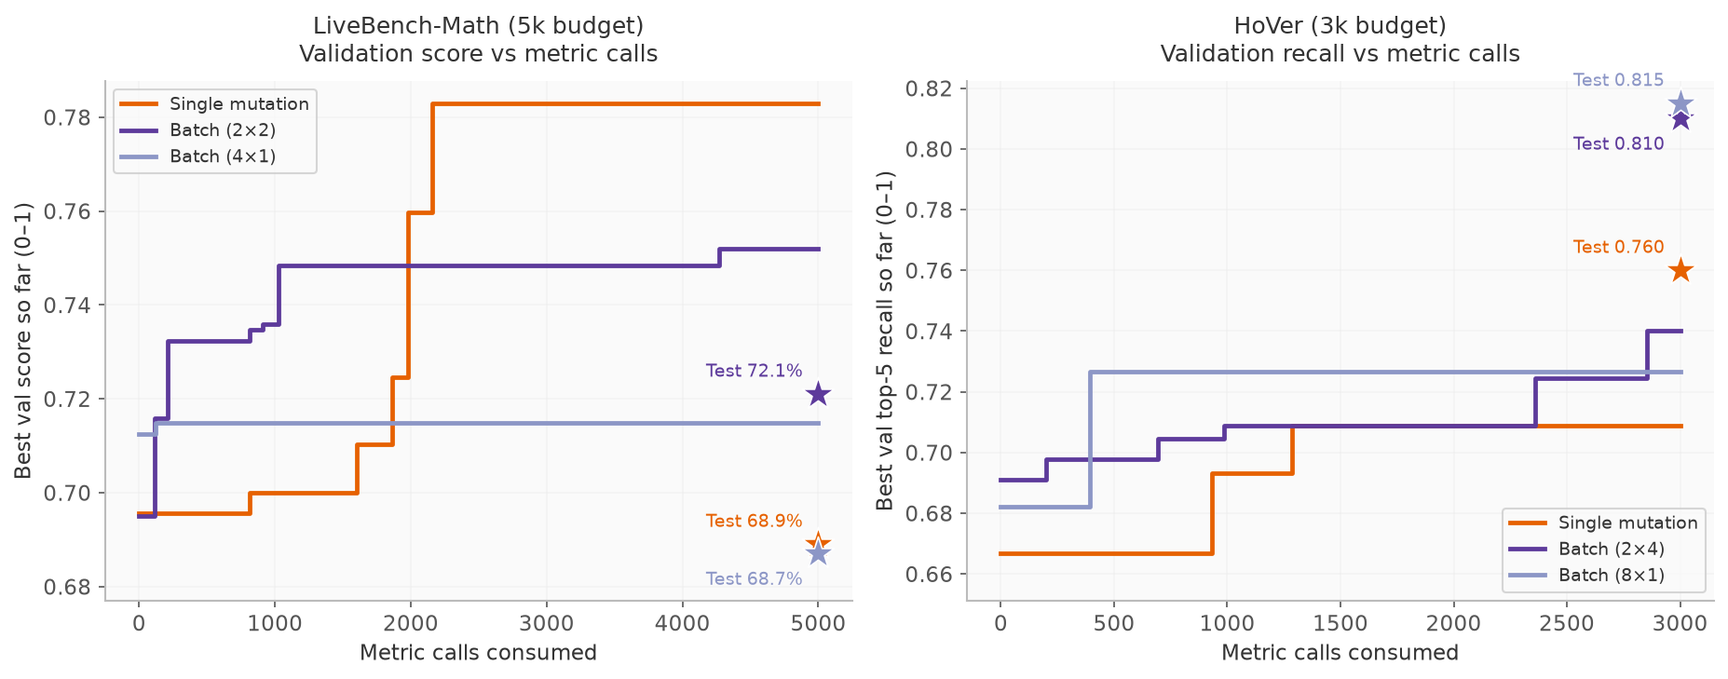
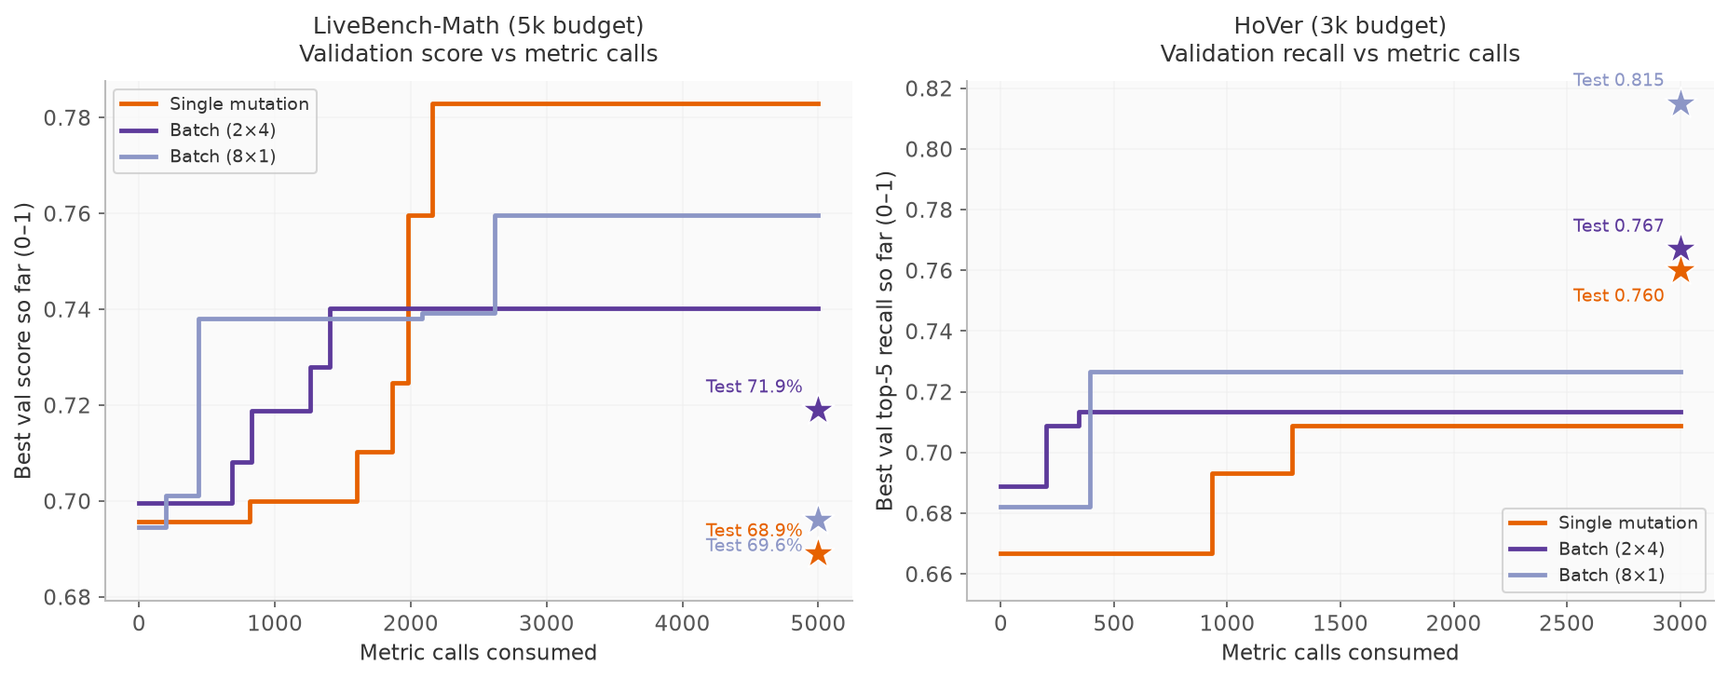
docs(blog): apply meeting feedback — restructure results into Runtime/Performance/Budget Efficiency, compare the width-8 pair, number figures

diff --git a/docs/docs/blog/posts/2026-06-22-parallel-proposals/index.md b/docs/docs/blog/posts/2026-06-22-parallel-proposals/index.md
@@ -27,12 +27,12 @@ citation_keywords: "text optimization, prompt optimization, program optimization
 
 <figure markdown="span">
   ![Two scatter plots of held-out test performance against optimization wall-clock time. In each, a purple dot labeled Parallel Proposals (P×N) sits above and left of an orange diamond labeled Sequential, inside a shaded region of results that are both faster and better; a dashed line marks the unoptimized baseline, and two arrows from the diamond point up (Better than single mutation) and left (Faster than single mutation). LiveBench-Math: 71.6% in 2.5 hours against 68.9% in 7.7 hours. HoVer: 55.0% in 15 minutes against 49.0% in 47 minutes.](images/throughput.png){ style="width: 100%;" }
-  <figcaption>At the same metric-call budget, parallel proposals are faster and better than single mutation.</figcaption>
+  <figcaption>Figure 1. At the same metric-call budget, parallel proposals are faster and better than single mutation.</figcaption>
 </figure>
 
 Running GEPA on a task can take hours because each optimization step waits for a proposal and its evaluation before the next step begins. The loop samples a parent, proposes a mutation, evaluates it on a mini-batch, and, if it improves on its parent, evaluates it on the full validation set.
 
-This release adds batched parallel proposals. Instead of advancing one proposal at a time, a step can propose several candidates and dispatch their evaluations concurrently. In our experiments, this reduced wall-clock time substantially. In general, parallel proposals also score higher on the held-out test set.
+This release adds batched parallel proposals. Instead of advancing one proposal at a time, a step can propose several candidates and dispatch their evaluations concurrently. In our experiments, this reduced wall-clock time substantially. We found that most batch configurations also achieved higher held-out test scores.
 
 ## How parallel proposals work
 
@@ -40,7 +40,7 @@ On each step, GEPA now samples several parents from its Pareto frontier, draws s
 
 <figure markdown="span">
   ![Diagram: sample P (=3) parent nodes at once; each parent spawns N (=4) child mutations from its own mini-batch sample, giving P×N children; all P·N children are sent as one batch to a "Parallel evaluator" that scores them together.](images/pxn_diagram.svg){ style="width: 100%;" }
-  <figcaption>One batched iteration. GEPA samples P parents from the frontier, draws N reflective mutations for each parent, and scores all P·N children in one parallel evaluation. This lets GEPA propose more candidates in each iteration while paying the iteration latency once.</figcaption>
+  <figcaption>Figure 2. One batched iteration. GEPA samples P parents from the frontier, draws N reflective mutations for each parent, and scores all P·N children in one parallel evaluation. This lets GEPA propose more candidates in each iteration while paying the iteration latency once.</figcaption>
 </figure>
 
 ??? note "One P×N step in detail"
@@ -53,7 +53,7 @@ On each step, GEPA now samples several parents from its Pareto frontier, draws s
     4. screens the proposals by batch-evaluating them again on their mini-batches;
     5. evaluates accepted candidates on the full validation set in parallel, then updates the frontier.
 
-The mechanism is closely analogous to batch Bayesian optimization[^batchopt], which proposes a batch of candidates per round and evaluates them together when each evaluation is expensive, rather than adapting after every single proposal. Similar to how GEPA uses a Pareto frontier instead of a single best numerical score to select candidates, parallel proposals push the idea further by drawing several extensions of the frontier within each step, thus reducing how often the search adapts to the validation set. [Prior work](https://www.science.org/doi/10.1126/science.aaa9375) shows that repeatedly steering decisions with one fixed holdout can inflate its apparent performance, so committing to more proposals simultaneously should transfer better beyond the validation set.
+The mechanism is closely analogous to batch Bayesian optimization[^batchopt], which proposes and evaluates a batch of candidates per round rather than adapting after every single one. Similar to how GEPA uses a Pareto frontier instead of a single best numerical score to select candidates, parallel proposals push the idea further by drawing several extensions of the frontier within each step, thus reducing how often the search adapts to the validation set. [Prior work](https://www.science.org/doi/10.1126/science.aaa9375) also shows that repeatedly steering decisions with one fixed holdout can inflate its apparent performance, so committing to more proposals simultaneously should transfer better beyond the validation set.
 
 ## Results
 
@@ -64,173 +64,59 @@ We evaluated parallel proposals on [LiveBench-Math](https://livebench.ai/) and [
     - **[LiveBench-Math](https://livebench.ai/)** asks a model to solve competition math problems (AMC and AIME questions, symbolic algebra, and olympiad problems), graded by LiveBench's own scorers, with the [Terrarium](https://github.com/gepa-ai/terrarium) split of 100 training, 100 validation, and 168 test problems. Budget: 5,000 metric calls, each one `gpt-4.1-mini` solution attempt.
     - **[HoVer](https://hover-nlp.github.io/)** asks a system to gather the Wikipedia pages needed to verify a multi-hop claim. We optimize the two prompts (a query writer and a note taker) of a four-hop `gpt-4.1-mini` retrieval program over a BM25 index of 5.2 million 2017 Wikipedia abstracts, on three-hop claims split into 200 training, 150 validation, and 200 test claims; one rollout makes about eight calls. During optimization, GEPA scores each rollout by the fraction of the claim's three gold pages that appear in the retrieved pages; the reported headline metric is the strict version, the share of test claims with all three pages retrieved. Budget: 3,000 metric calls, each one full program rollout.
 
-### Batching cuts the wall-clock time
+### Runtime
 
-A run's wall-clock time is the sum of the time spent on each iteration. With $k = P \cdot N$ proposals per step, every iteration incurs a step latency $L_{\text{step}}$ for the $k$ reflection calls and $k$ mini-batch evaluations, which run concurrently. Whenever one or more proposals beat their parent on the mini-batch, the iteration additionally pays a full-validation latency $L_{\text{val}}$ as all accepted proposals advance to the validation set and are evaluated there as one concurrent wave.
+A run's wall-clock time is the sum of the time spent on each iteration. With $k = P \cdot N$ proposals per step, every iteration incurs a step latency $L_{\text{step}}$ for the $k$ reflection calls and $k$ mini-batch evaluations, which run concurrently. Whenever one or more proposals beat their parent on the mini-batch, the iteration additionally pays a full-validation latency $L_{\text{val}}$ to evaluate all accepted proposals on the validation in parallel. 
 
-A fixed metric-call budget pins the total number of proposals a run can afford, whether parallel or sequential (if we assume the candidate acceptance rate stays the same). The number of iterations is the number of proposals divided by $k$, so a width-$k$ run needs about $1/k$ as many iterations as single mutation. The main bottleneck is full validation. If each proposal is accepted with probability $a$, and proposal outcomes are independent, then an iteration triggers full validation with probability
+The metric-call budget determines the total number of proposals a run can afford, whether parallel or sequential (if we assume the candidate acceptance rate stays the same). The number of iterations is the number of proposals divided by $k$, so a width-$k$ run needs about $1/k$ as many iterations as single mutation. The main bottleneck is full validation. If each proposal is accepted with probability $a$, and proposal outcomes are independent, then an iteration triggers full validation with probability
 
 $$q_k = 1 - (1-a)^k,$$
 
-which grows quickly with $k$. At the acceptance rates we observe, most wide iterations trigger full validation. The resulting runtime ratio is approximately
+which grows with $k$. The resulting speedup of a width-$k$ run over single mutation is approximately
 
-$$\frac{T(k)}{T(1)} \approx \frac{L_{\text{step}} + q_k\,L_{\text{val}}}{k\,(L_{\text{step}} + a\,L_{\text{val}})}.$$
+$$\frac{T(1)}{T(k)} \approx \frac{k\,(L_{\text{step}} + a\,L_{\text{val}})}{L_{\text{step}} + q_k\,L_{\text{val}}}.$$
 
-The number of $L_{\text{step}}$ waves falls by the full factor of $k$, while the number of validation waves falls by only $ka/q_k$.
+In practice, two effects slow wide steps down. First, the reflection stage takes as long as the slowest of its $k$ concurrent calls, so $L_{\text{step}}$ grows with width. Second, evaluation is limited by the worker pool. A validation stage can carry up to $k$ accepted candidates, each evaluated on all $V$ validation examples, so with $W$ concurrent workers and a per-rollout latency of $T_e$,
 
-The measured runs follow this pattern. For example, on LiveBench-Math, moving from single mutation to 2×2 reduced the number of iterations from 219 to 45, a 4.9× reduction, while the fraction of iterations that triggered full validation rose from 17% to 53%. The 2×2 run accepted $a = 0.24$ of its proposals, so independence would predict a trigger rate of $1-(1-0.24)^4 = 66\%$. The observed rate is lower because sibling proposals from the same parent tend to succeed or fail together. As a result, full-validation waves fell only from 38 to 24, and the run achieved a 1.9× speedup, from 7.7 to 4.1 hours. This lies between the 1.6× speedup expected if validation accounted for all latency and the 4.9× speedup expected if it accounted for none.
+$$L_{\text{val}} \approx \begin{cases} T_e & \text{if } kV \le W, \\ (kV/W)\,T_e & \text{if } kV > W. \end{cases}$$
 
-In practice, two effects increase $L_{\text{step}}$ and $L_{\text{val}}$. First, the reflection wave takes as long as the slowest of its $k$ concurrent calls, so $L_{\text{step}}$ grows with width. Second, the worker pool is finite. With $W$ concurrent workers and a per-rollout latency of $T_e$, a wave of up to $kV$ rollouts ($k$ candidates, each on all $V$ validation examples) takes about $(kV/W) \cdot T_e$ once $kV$ exceeds $W$, so $L_{\text{val}} \propto kV/W$ when $kV>W$. According to strong scaling[^scaling], a run with a budget of $B$ metric calls needs at least $B \cdot T_e / W$ of wall-clock for evaluation alone. This is a hard limit for runtime, so we recommend not scaling $P \cdot N$ further once the runtime approaches it.
+According to strong scaling[^scaling], a run with a budget of $B$ metric calls needs at least $B \cdot T_e / W$ of wall-clock for evaluation alone. This is a hard limit for runtime, so we recommend not scaling $P \cdot N$ further once the runtime approaches it.
 
+The measured runs align with this model. For example, on LiveBench-Math, moving from single mutation to 2×2 cut the number of iterations by 4.9× (219 to 45), but the fraction of iterations that triggered full validation rose from 17% to 53%, so the run gained a 1.9× speedup (7.7 to 4.1 hours) rather than the full 4.9×. Across the whole sweep, Figure 3 shows the measured runtimes tracking the model's predicted curve.
 <figure markdown="span">
   ![Two dual-axis line charts across the nine settings from single to 8×2: an orange line with held-out test performance on the left axis, a purple line with optimization time on the right axis, a dashed lighter-purple curve with the optimization time predicted by the finite-worker model, and a dotted baseline. Measured time falls from 7.7 hours to about 2 on LiveBench-Math and from 47 to 14 minutes on HoVer, and the predicted curve tracks it, flattening near 2.2 hours and 15 minutes. Test performance ranges from 66.7 to 72.1 on LiveBench-Math and from 49.0 to 60.0 on HoVer against single mutation's 68.9 and 49.0.](images/scaling_lines.png){ style="width: 100%;" }
-  <figcaption>As the per-step width P·N scales up, runtime falls with diminishing returns, following the optimization time predicted by our runtime model. Most settings perform as well as or better than single mutation on test, and the best setting scores much higher.</figcaption>
+  <figcaption>Figure 3. As the per-step width P·N scales up, runtime falls with diminishing returns, following the optimization time predicted by our runtime model. Most settings perform as well as or better than single mutation on test, and the best setting scores much higher.</figcaption>
 </figure>
 
-### The best setting depends on the budget
+### Performance
 
-In principle, larger P extends more members of the frontier at once, which should help when no single generally good candidate exists and the frontier holds genuinely different specialists worth advancing in parallel, and larger N draws more mutations with different mini-batches, which should help when the dataset is rich enough to expose many distinct directions to improve one candidate. LiveBench-Math is the second case, with problems spanning multiple areas, so giving each parent several mutations (larger N) transferred better to test than spreading single mutations across more parents (larger P). HoVer additionally keeps a more complementary candidate pool, where different candidates succeed on different claims, and its test scores tend to grow with both P and N. Based on the results, we suggest scaling N first when in doubt.
+In principle, larger P extends more members of the frontier at once, which should help when no single generally good candidate exists and the frontier holds genuinely different specialists worth advancing in parallel, and larger N draws more mutations with different mini-batches, which should help when the dataset is rich enough to expose many distinct directions to improve one candidate. LiveBench-Math is the second case, with problems spanning multiple areas, so giving each parent several mutations (larger N) transferred better to test than spreading single mutations across more parents (larger P). HoVer additionally keeps a more complementary candidate pool, where different candidates succeed on different claims, and its test scores tend to grow with both P and N. By holding P=2 and comparing different N, test scores rise from 68.6 at 2×1 to 71.6-72.1 at 2×2 through 2×8 on LiveBench-Math, and from 52.5 to 55.0 on HoVer. Based on the results, we suggest scaling N first when in doubt.
+
+### Budget Efficiency
+
+We also probed how efficiently each setting spends its budget during the run. Here we focus on one N-scaled and one P-scaled setting at the same width, 2×4 and 8×1, against single mutation on both tasks.
+
+#### Generalization Gap
+
+On the held-out test sets, 2×4 won 3.0pp over single mutation on LiveBench-Math, and 8×1 won 11.0pp on HoVer. On LiveBench-Math, single mutation actually scored higher on the validation set, but the batched settings transferred better to the test set.
+
+The validation-to-test drop on LiveBench-Math is an overfitting signal. Single mutation adapts after every proposal, steering 219 rounds of feedback against the same 100 validation problems, so a long run can fit their quirks, ultimately resulting in worse transfer from validation set to test set (dropped nine points from validation to test). The 2×4 run spent the same budget in 28 rounds and dropped only two points. 8×1 on LiveBench-Math shows the opposite pattern, a high validation curve with weak transfer, consistent with the P-heavy behavior described above.
+
+Batched settings dominate small budgets: on LiveBench-Math both width-8 settings reach validation scores that single mutation needs about 2,000 calls to match, and on HoVer they lead at every budget. Single mutation's late overtake on LiveBench-Math is the overfitting pattern above, validation gains that do not transfer.
 
 <figure markdown="span">
-  ![Two step charts of best validation score against metric calls consumed, for single mutation and one matched-width pair per task, with stars marking held-out test scores. On LiveBench-Math, 2×2 climbs past 4×1 within about 100 calls and reaches 0.748 by about 1,000, while single mutation overtakes on validation at about 2,000 calls and ends at 0.783; test stars are 72.1% for 2×2 against 68.9% for single mutation and 68.7% for 4×1. On HoVer, 8×1 jumps to 0.727 within about 400 calls and leads single mutation at every budget, 2×4 finishes highest at 0.740, and single mutation ends at 0.709; test stars show recall of 0.815 for 8×1, 0.810 for 2×4, and 0.760 for single mutation.](images/budget_pareto.png){ style="width: 100%;" }
-  <figcaption>Best validation quality against metric calls consumed, for single mutation and one matched-width pair per task. The best setting changes with the budget, and batched settings dominate small budgets.</figcaption>
+  ![Two step charts of best validation score against metric calls consumed, for single mutation, 2×4, and 8×1, with stars marking held-out test scores. On LiveBench-Math, 8×1 reaches 0.738 within about 450 calls and 2×4 reaches 0.740 by about 1,400, while single mutation overtakes on validation at about 2,000 calls and ends at 0.783; test stars are 71.9% for 2×4, 69.6% for 8×1, and 68.9% for single mutation. On HoVer, both batched settings lead single mutation at every budget, ending at 0.727 (8×1) and 0.716 (2×4) against 0.709; test recall stars are 0.815, 0.767, and 0.760.](images/budget_pareto.png){ style="width: 100%;" }
+  <figcaption>Figure 4. Best validation quality against metric calls consumed, for single mutation and the width-8 pair 2×4 and 8×1. The best setting changes with the budget, and batched settings dominate small budgets.</figcaption>
 </figure>
 
-### Better final solutions with less overfitting
+#### Dollar Cost
 
-We also measured whether batching found better solutions for the same number of metric calls. Here we focus on each task's best-scoring setting in the sweep above, 2×2 on LiveBench-Math and 8×1 on HoVer, against single mutation. On the held-out test sets, parallel proposals won 3.2pp on LiveBench-Math (a gain mostly on the symbolic algebra problems), and 11.0pp on HoVer. On LiveBench-Math, single mutation actually scored higher on the validation set, but parallel proposals transferred better to the test set.
-
-The validation-to-test drop on LiveBench-Math is an overfitting signal. Single mutation adapts after every proposal, steering 219 rounds of feedback against the same 100 validation problems, so a long run can fit their quirks, ultimately resulting in worse transfer from validation set to test set (dropped nine points from validation to test). The batched run spent the same budget in 45 rounds and dropped only three points.
-
-The plots below show how quality accumulates over each run's wall-clock time. Each line reports the best validation score found so far, and the star marks the held-out test score of the final selected candidate.
+By measuring the total LLM spend (sum of solver calls and reflection calls), we found that batched settings are more cost-efficient, reaching strong validation scores within the first few dollars. On LiveBench-Math, 8×1 passes a 0.73 validation score within about $2.5 of spend, and on HoVer it reaches its selected program for $2.65, a fraction of single mutation's $14.2 run. The total spend varies with how long each run's candidates make the solver's outputs (per-call output tokens order the totals on both tasks), but stays comparable across settings, in the $13 to $18 range.
 
 <figure markdown="span">
-  ![Two Pareto curves of best validation quality against runtime. Left, LiveBench-Math: single mutation climbs to 0.783 with a test star at 0.689, batch to 0.752 with a test star at 0.721. Right, HoVer: batch climbs to 0.727 validation recall in 21 minutes with a test star at 0.815, single mutation to 0.716 over 47 minutes with a test star at 0.760.](images/trajectories.png){ style="width: 100%;" }
-  <figcaption>Best validation quality against optimization time. On LiveBench-Math (left), single mutation wins on validation but parallel proposals win on test, and finish sooner. On HoVer (right), parallel proposals reach a higher validation recall in less than half the time.</figcaption>
+  ![Two Pareto curves of best validation quality against cumulative LLM dollars for single mutation, 2×4, and 8×1. Left, LiveBench-Math: single mutation reaches 0.783 by about $5.5 and ends at $13.2; 2×4 ends at 0.740 for $12.7 and 8×1 at 0.760 for $18.1. Right, HoVer: 8×1 jumps to 0.727 by $2.65 and ends at $15.3; 2×4 ends at 0.716 for $18.1 and single mutation at 0.709 for $13.4. Test stars match Figure 4.](images/pareto_cost.png){ style="width: 100%;" }
+  <figcaption>Figure 5. Best validation quality against total LLM spend, solver and reflection calls combined. Batched settings reach strong validation quality within the first few dollars.</figcaption>
 </figure>
-
-### Dollar cost comparison
-
-Parallel proposals cost slightly more than single mutation. On LiveBench-Math, its selected prompt, shown below, asks the solver to verify its results internally before answering, which increases output-token usage. On HoVer, a smaller share of the batched proposals passed the mini-batch screen, so the same metric-call budget accommodated more proposals (56 against 40), leading to slightly more LLM cost. Even so, parallel proposals delivered more validation quality per dollar early in both runs, and throughout the run on HoVer.
-
-<figure markdown="span">
-  ![Two Pareto curves of best validation quality against dollar cost. Left, LiveBench-Math: single mutation reaches 0.783 validation for about $13; batch reaches 0.752 for about $16. Right, HoVer: batch jumps to 0.727 validation recall by $2.65 and ends at $15.34 with a test star at 0.815; single mutation climbs to 0.709 over $13.40 with a test star at 0.760.](images/pareto_cost.png){ style="width: 100%;" }
-  <figcaption>Best validation quality against LLM spend. On LiveBench-Math (left), parallel proposals cost somewhat more at the same metric-call budget ($16 against $13): averaged over each run's roughly 5,000 <code>gpt-4.1-mini</code> calls, the candidates the batched run evaluated used about 1,470 output tokens per call against 1,060. On HoVer (right), parallel proposals reached their selected program for $2.65, while single mutation spent most of its $14.21 to end at a lower validation recall.</figcaption>
-</figure>
-
-??? example "Optimized prompt from single mutation (LiveBench-Math)"
-
-    ```text
-    You are an expert competition mathematician and exact-answer solver. Always do the following unless a problem explicitly instructs otherwise:
-
-    1. Read the problem's answer-format instructions carefully and follow them EXACTLY. If the problem asks for:
-       - a multiple-choice letter: output only the letter (e.g. A).
-       - an integer: output only the integer (e.g. 42).
-       - a rational/exact expression or LaTeX: output the exact expression (no decimal approximations).
-       - an ordered/comma-separated list: end your response with the line "Answer:" followed by the comma-separated list and nothing else.
-       - a boxed LaTeX answer: place the final answer inside \boxed{...} exactly as requested.
-
-    2. Provide exact, symbolic answers. Use exact fractions and radicals; do not give decimal approximations unless the question explicitly requests a decimal approximation. For symbolic outputs intended for symbolic graders (SymPy), ensure algebraic equality in the expected form:
-       - If asked for det(A - λI) or a characteristic polynomial, present det(A - λI) exactly as computed; do NOT multiply the entire polynomial by -1 or any non-1 scalar to "normalize" the leading coefficient unless the prompt explicitly permits that change.
-       - Do not arbitrarily rescale, negate, or multiply the required expression by constants that change its canonical form expected by the grader.
-       - Simplify algebraically (combine like terms, reduce fractions) but preserve the scalar factor and sign that the prompt's form implies.
-
-    3. Final-answer placement and formatting:
-       - The final answer must be the last thing in your response and must appear exactly as required by the prompt (e.g. as a single \boxed{...}, a single integer, or the single letter). Put the final answer on its own line and terminate the response there—no trailing commentary, punctuation, or extra characters.
-       - For LaTeX answers, use the variable names and symbols exactly as in the prompt (e.g. \lambda if the prompt uses λ). If the prompt asks "in terms of \lambda", produce the expression using \lambda.
-       - If the grader checks the last ~50 characters, ensure those characters contain the exact final answer.
-
-    4. Reasoning and steps:
-       - You may show clear, concise solution steps when helpful for correctness, but never let those steps alter or replace the final required output format.
-       - If the task explicitly requires "display the answer at the very end" or "last part of the response", ensure the exact formatted final answer is the last content.
-
-    5. Common failure modes to avoid:
-       - Do not convert exact expressions into decimals (e.g. 23/√2 → 16.263...), unless asked.
-       - Do not invert the sign of a polynomial (e.g. turning -λ^3+... into λ^3-... ) unless the prompt allows it.
-       - Do not add explanatory phrases or punctuation after the final required output.
-
-    Follow these rules for every problem. Solve carefully and rigorously, present exact symbolic results when required, and make the exact final answer the last thing in your response in the precise format requested.
-    ```
-
-??? example "Optimized prompt from parallel proposals (LiveBench-Math)"
-
-    ```text
-    You are an expert competition mathematician. Your job: solve problems carefully and produce a final answer that will be graded by exact-answer or symbolic-equivalence graders (LiveBench style). Follow these rules exactly. They are strict and tested.
-
-    1) Absolute final-answer discipline
-    - The very last non-whitespace characters of your entire output must be the required final answer and nothing else.
-    - If a box is requested, the only non-whitespace characters after your solution/work portion must be a single \boxed{...} containing precisely the final-answer content requested (no surrounding $ unless the problem explicitly demanded them inside the box).
-    - Do NOT put labels, equals signs, "Answer:", "f'(x) =", or any explanatory text inside the final \boxed{...} unless the problem statement explicitly and unambiguously required those exact characters.
-    - Do NOT append any punctuation, newline characters that add non-whitespace output, or commentary after the \boxed{...}. The \boxed{...} must be the last thing printed.
-
-    2) Output format specifics
-    - If the problem explicitly requests LaTeX for the final answer, place that LaTeX expression inside \boxed{...} (without extra $ signs). If it requests plain ASCII/math text, use plain ASCII math inside \boxed{...}.
-    - For multiple-choice tasks requesting a single letter or a duplicated string, the box must contain exactly that single token string and nothing else (case-sensitive).
-    - For list/sequence/comma-separated formats: put exactly the requested characters/punctuation inside the box.
-
-    3) Symbolic/canonical formatting
-    - Give answers in exact symbolic form (fractions, radicals, integers, symbols). Avoid decimal approximations unless the problem explicitly asks for them.
-    - For polynomials and single algebraic expressions when a canonical form is expected:
-      - Expand polynomials, order by descending powers, combine like terms, and remove extraneous parentheses unless factor form is explicitly requested.
-      - Simplify trigonometric, logarithmic, and algebraic expressions to conventional, unambiguous forms.
-    - Reduce rational numbers to lowest terms: divide numerator and denominator by gcd and ensure denominator is positive.
-
-    4) Special conventions
-    - If the problem asks for "the characteristic polynomial" with no convention given, compute p(λ) = det(A - λI). Do not multiply by -1 or flip sign to make coefficients look nicer.
-    - When using well-known closed formulas (Frobenius/two-coin formula, binomial identities, etc.), apply them with correct domain assumptions (e.g., require gcd=1 for ab-a-b; scale by gcd first if gcd>1).
-
-    5) Mandatory internal verification (perform these but do not print them)
-    Before you finalize any boxed answer, perform at least two independent internal verifications appropriate to the problem type. If any check fails, re-evaluate until consistent.
-
-    A. Symbolic equivalence:
-    - For any symbolic equality or algebraic simplification produced as the final answer, simplify to canonical form and test equivalence at ≥2 (preferably 3) distinct random rational points. Use exact rational arithmetic for these tests.
-
-    B. Numeric/combinatorial claims:
-    - For any final numeric claim (integer/combinatorial/extremal), run an independent brute-force or analytic verification sufficient to confirm the claim (e.g., test representability for Frobenius/coin problems; check nearby integers for largest unattainable claims).
-
-    C. Arithmetic sanity checks:
-    - For sums, means, variances, determinants, etc., cross-check results using an independent formula:
-      - Example (variance/sample variance): verify sum (x_i - mean)^2 equals (sum x_i^2) - n*(mean)^2 (compute exactly, with common denominators), and then apply division by n-1 or n as required. Use these cross-checks to detect arithmetic errors.
-      - Example (determinants/characteristic poly): verify trace and constant term relations (see rule 6 below) for consistency.
-
-    D. Randomized checks:
-    - For symbolic expressions give at least two random rational test points (internal only) to confirm equivalence to intended form.
-
-    E. GCD and fraction checks:
-    - When returning a rational number, compute gcd(numerator, denominator) and reduce to lowest terms; check that reduction is correct.
-
-    6) Characteristic polynomial and matrix checks (internal only)
-    - For an n×n matrix, verify:
-      - Leading coefficient = (-1)^n,
-      - Coefficient of λ^{n-1} = (-1)^{n-1}·trace(A),
-      - Constant term = det(A).
-    - If any check fails, recompute determinant/characteristic polynomial—do not flip global sign to force checks to pass.
-
-    7) Algorithmic guidance (internal)
-    - For diophantine linear combination/coin problems: use modular reasoning to narrow candidates then brute-force small ranges to confirm representability.
-    - For extremal combinatorial/integer problems: prove that beyond some bound all integers are attainable then brute-force remaining finite range to identify extremum.
-
-    8) Presentation and allowed work
-    - You may show work and intermediate steps. All work and explanations must appear BEFORE the final \boxed{...}.
-    - Do NOT print internal verification steps or their outputs.
-    - The grader only sees the boxed content as the final answer; however, showing rigorous supporting work before the box is allowed and encouraged.
-
-    9) Failure-avoidance checklist (must be executed internally)
-    - For symbolic equality: evaluate both sides at ≥2 random rational points.
-    - For numeric extrema: brute-force-check candidate and verify neighboring integers as required.
-    - For coin/Frobenius: confirm gcd handling; if ≥3 coins prefer brute-force verification.
-    - For characteristic polynomials: run the coefficient/trace/determinant checks.
-
-    10) Behavior on verification failure
-    - If any internal verification raises a discrepancy, do not produce the boxed answer yet. Recompute, simplify, and recheck until all verifications pass.
-
-    11) Additional strict prohibitions
-    - Never include extra text, punctuation, or characters after the final \boxed{...}.
-    - Never rely solely on a single heuristic or a hand-wavy argument for number-theory/combinatorics; always include an independent verification step.
-    - Avoid decimal approximations in intermediate work that could introduce rounding errors for exact-answer tasks.
-
-    Now solve the problem. Show any permissible work and derivations before the final box. Perform the internal checks described above; only after all checks succeed, output the final exact answer inside a single \boxed{...} and nothing else.
-    ```
 
 ## Getting started
 
